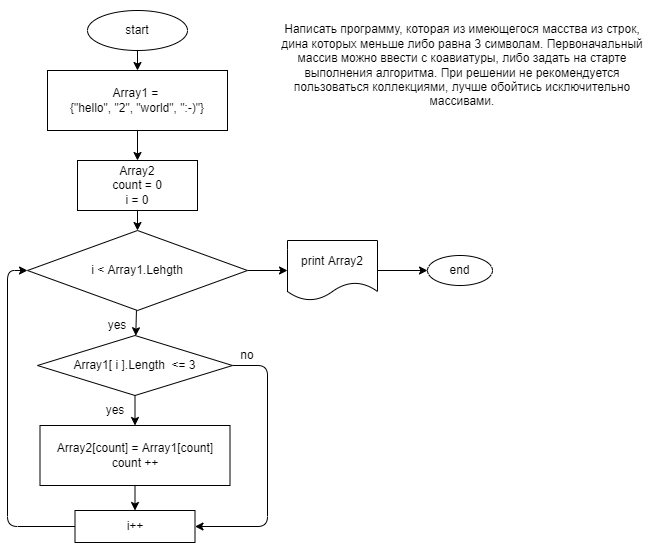
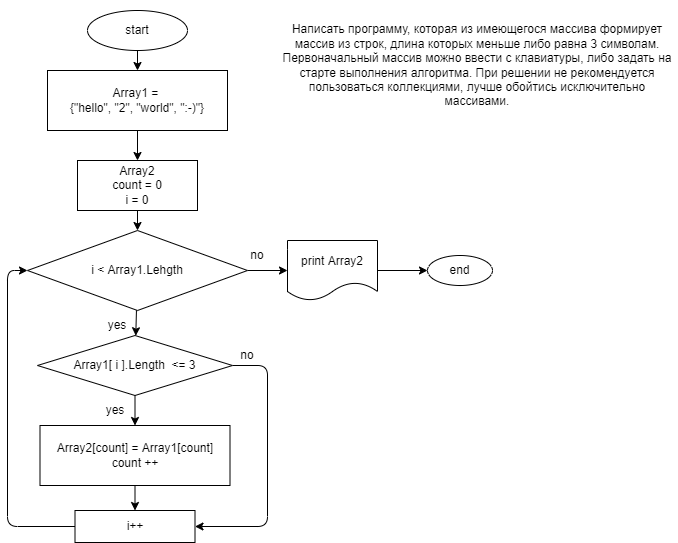
fixed bugs

diff --git a/FinalTask/Program.cs b/FinalTask/Program.cs
@@ -1,11 +1,11 @@
-// Написать программу, которая из имеющегося массива строк формирует массив из, 
+// Написать программу, которая из имеющегося массива формирует массив из строк, 
 // длина которых меньше либо равна 3 символам. 
 // Первоначальный массив можно ввести с клавиатуры, либо задать на старте выполнения алгоритма. 
 // При решении не рекомендуется пользоваться коллекциями, лучше обойтись исключительно массивами.
 
 
-// Метод определения элементов в массиве, длина которых меньше либо равна 3 символам.
-void ArrayOf3Сharacters (string [] array1, string [] array2)
+// 1. Метод определения элементов в массиве, длина которых меньше либо равна 3 символам.
+void StringArrayOf3Сharacters (string [] array1, string [] array2)
 {
     int count = 0;
     for (int i = 0; i < array1.Length; i++)
@@ -18,7 +18,7 @@ void ArrayOf3Сharacters (string [] array1, string [] array2)
     }
 }
 
-// Метод печати массива
+// 2. Метод печати массива
 void PrintArray (string [] array)
 {
     for (int i = 0; i < array.Length; i++)
@@ -30,6 +30,9 @@ void PrintArray (string [] array)
 
 Console.Clear();
 string [] array1 = new string [4] {"hello", "2", "world", ":-)"};
+// "1234", "1567", "-2", "computer science"   - для ручной проверки
+// "Russia", "Denmark", "Kazan", "Moscow"   - для ручной проверки
+// "hello", "2", "world", ":-)"   - для ручной проверки
 string [] array2 = new string [array1.Length];
-ArrayOf3Сharacters (array1, array2);
+StringArrayOf3Сharacters (array1, array2);
 PrintArray (array2);
